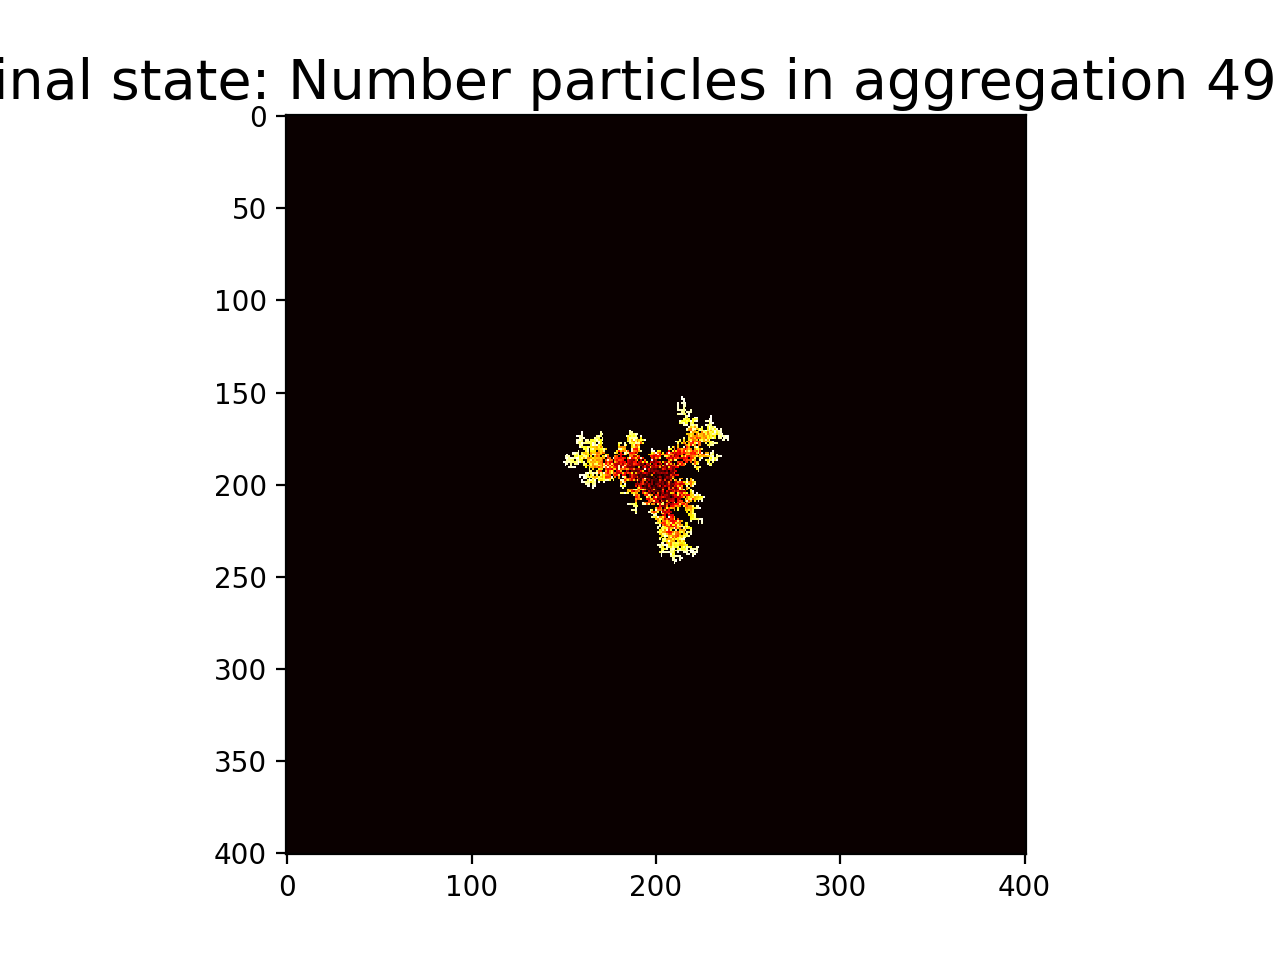
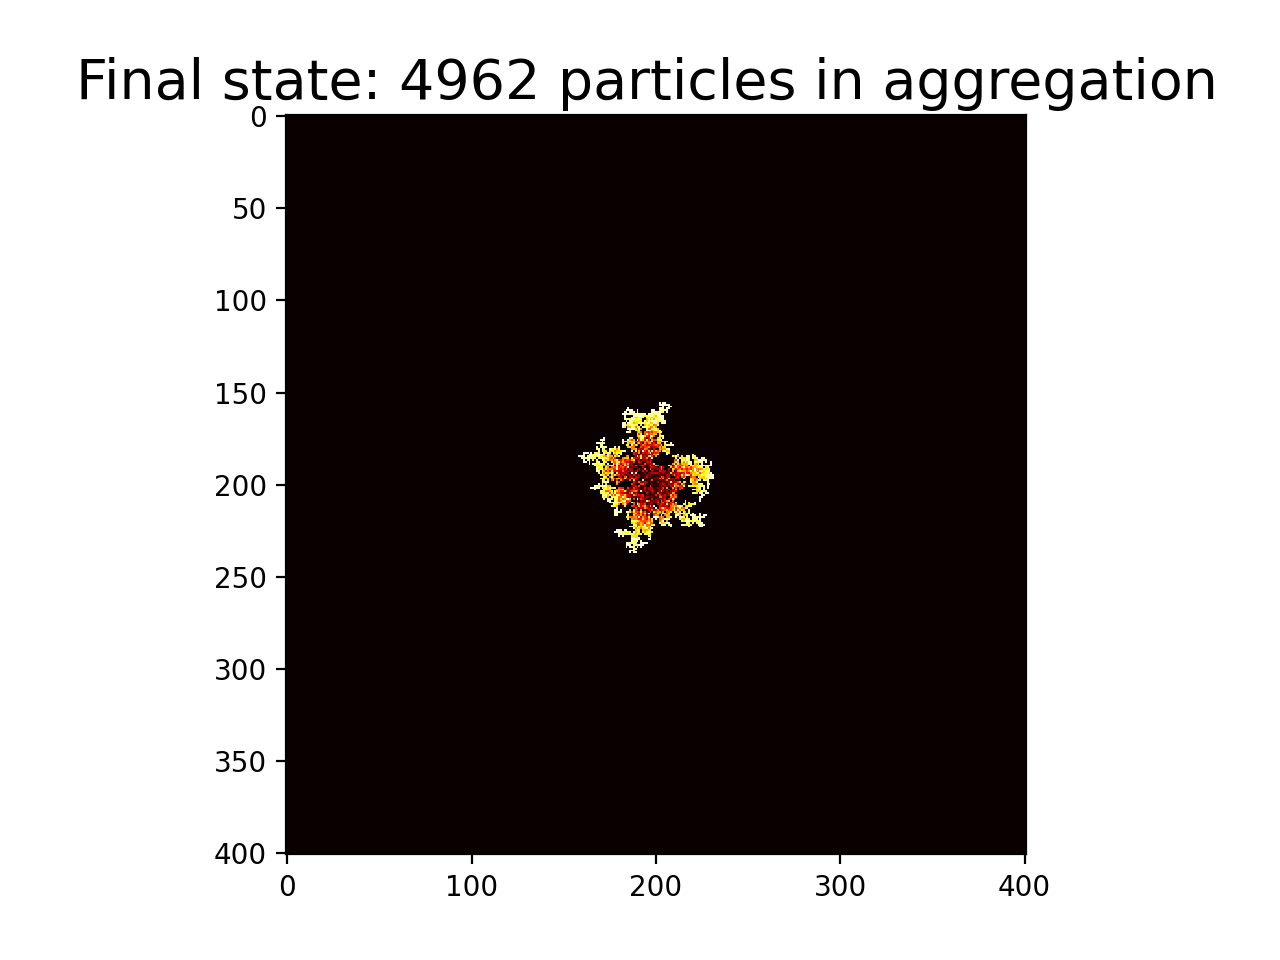
fix label image

Changed region(s): [[0.0, 0.0625, 1.0, 0.125], [0.4375, 0.4062, 0.5625, 0.5938]]

diff --git a/ImageRecorder.py b/ImageRecorder.py
@@ -9,7 +9,7 @@ class ImageRecoder(Recorder):
         pass
 
     def export_result(self):
-        label = "Final state: Number particles in aggregation " + str(self.dla.num_hits)
+        label = "Final state: "+str(self.dla.num_hits)+" particles in aggregation "
         plt.title(label, fontsize=20)
         plt.imshow(self.dla.surface_matrix, cmap='hot', interpolation='nearest')
         plt.savefig("images/final_result.png", dpi=200)

diff --git a/GifRecorder.py b/GifRecorder.py
@@ -10,7 +10,7 @@ class GifRecoder(Recorder):
         self.count = 0
 
     def record(self):
-        label = "Number particles in aggregation "+str(self.dla.num_hits)
+        label = "Number particles "+str(self.dla.num_hits)
         plt.title(label, fontsize=20)
         plt.imshow(self.dla.surface_matrix, cmap='hot', interpolation='nearest')
         plt.savefig("images/cluster{}.png".format(self.count), dpi=200)

diff --git a/main.py b/main.py
@@ -1,7 +1,7 @@
 from ConstantStickDistribution import ConstantStickDistribution
 from DLA import DLA
 
-stickDist = ConstantStickDistribution(proba=0.6)
+stickDist = ConstantStickDistribution(proba=1.0)
 dla = DLA(radius_limit=200,numParticles=5000,stickDistribution=stickDist)
 
 dla.simulate()
